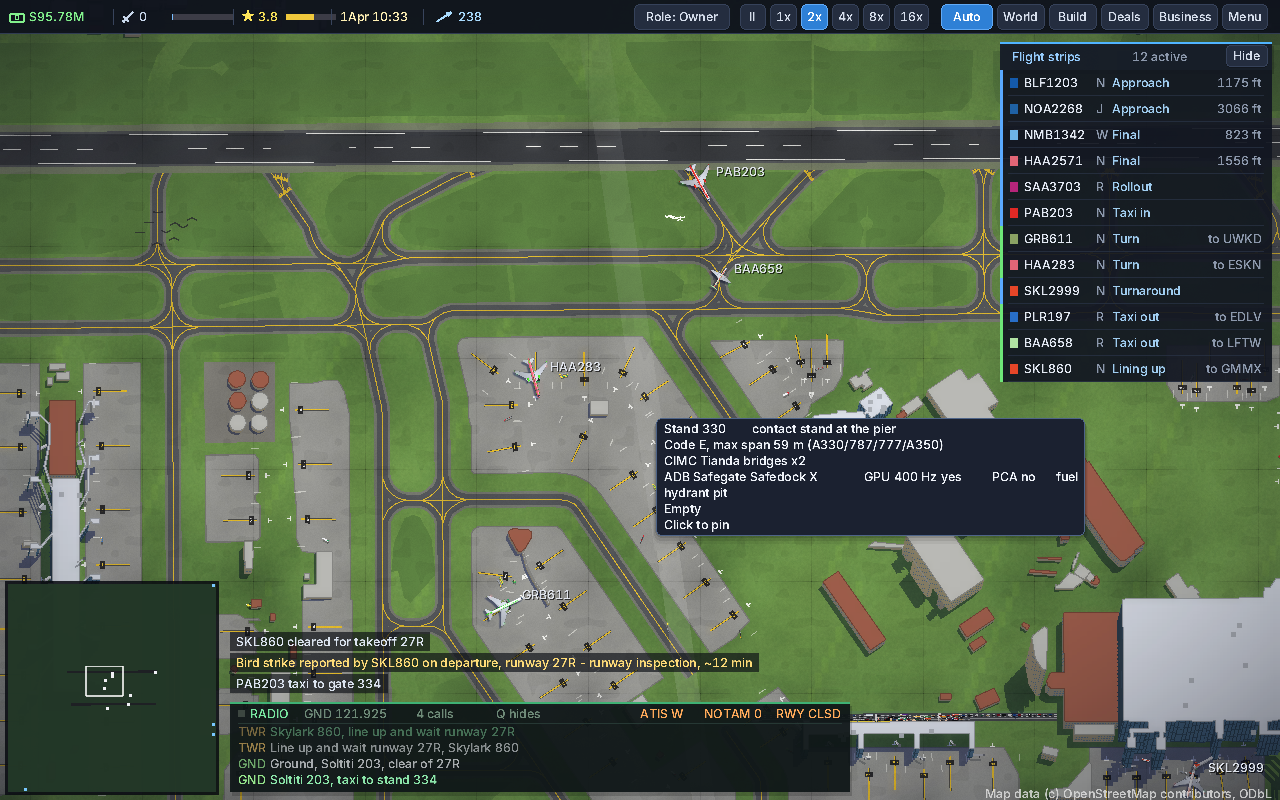
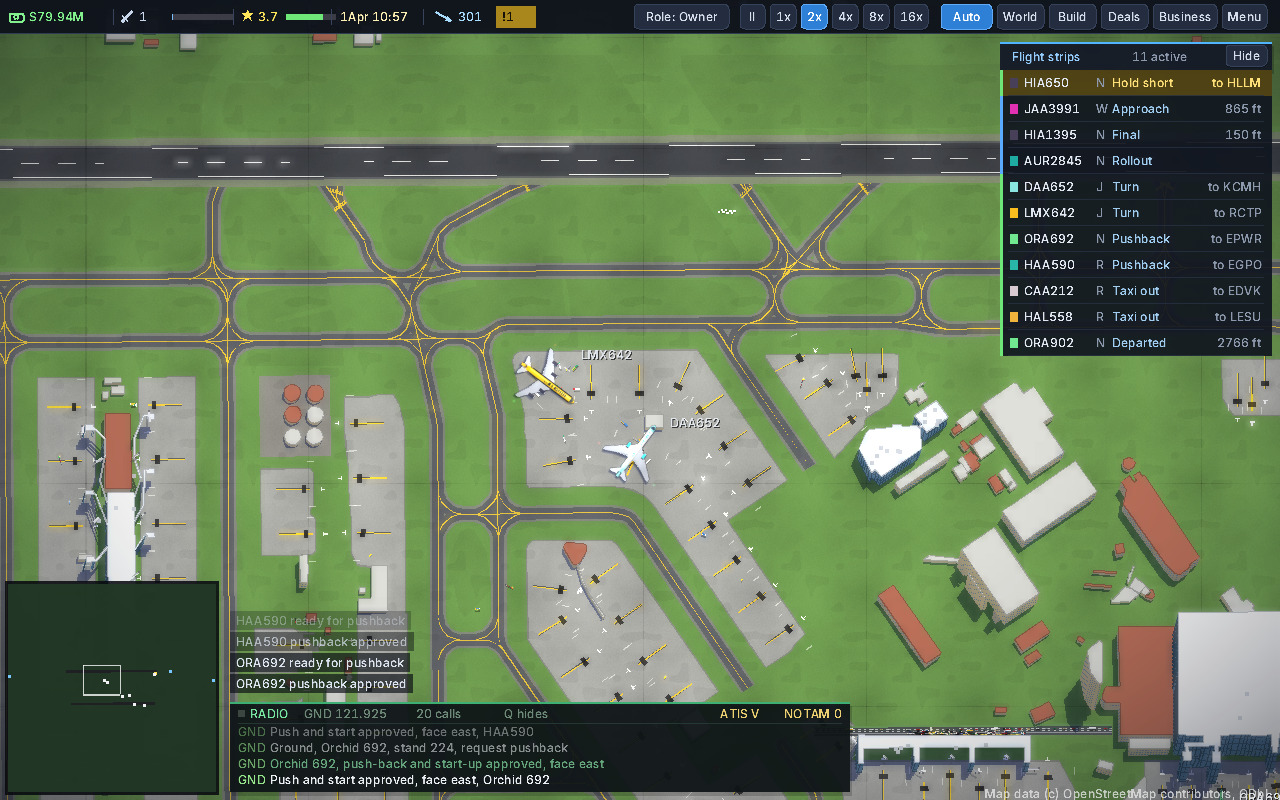
AirportSim: W3b merged (master c365bc1, suite 166,812/0); screenshots refreshed from the current build — world map, large (Heathrow), medium (Kelowna), small (Key West)

diff --git a/projects/airportsim/index.html b/projects/airportsim/index.html
@@ -174,9 +174,9 @@
   never his original scope — becomes one continuous world you can scroll
   or fly across, airport to airport, with one fully simulated airport at
   a time and the rest living statistical lives until you arrive. The
-  first two steps are merged and the third is underway (PRs #51, #52
-  and #61; master at <span
-  class="mono">997413f</span>): a double-precision world frame (worst
+  first two steps are merged and the third is well underway (PRs #51, #52,
+  #61 and #62; master at <span
+  class="mono">c365bc1</span>): a double-precision world frame (worst
   measured round-trip error 0.00001&nbsp;m), a geography pack format with
   real terrain data (Detroit and Denver areas built from ETOPO 2022 and
   Natural Earth), and a Development Mode world inspector — landed with
@@ -186,16 +186,21 @@
   the camera leaves the 9&nbsp;km fence for a 150&nbsp;km envelope, and
   the real geography — the Detroit River, Lake Erie, neighbouring
   airfields — renders to the horizon, with the full post-merge test
-  battery green. The third step has begun: its first part (PR #61) gives
+  battery green. The third step: its first part (PR #61) gives
   every arriving flight an identity worked out when it is scheduled —
   airline, aircraft, callsign, origin — and hands departing flights off
-  into onward tracks instead of letting them vanish at the fence. It
-  runs in shadow for now, proven to change nothing yet by a
-  bit-for-bit comparison run against the old code; the switch that
-  makes arrivals use those identities is building, with the full suite
-  at 166,742 checks, 0 failed. The geography was measured before it
-  was promised: at the finer terrain resolution the whole planet prices
-  out at about 1.1&nbsp;GB against a 2.5–3.0&nbsp;GB working budget.
+  into onward tracks instead of letting them vanish at the fence; it ran
+  in shadow first, proven to change nothing by a bit-for-bit comparison
+  run against the old code. The switch has now landed (PR #62):
+  arrivals are born from those identities, entering on the real bearing
+  from their real origin — and the step's own test gate caught an older
+  bug (the tower forgot its speed assignments across a save and reload)
+  and it was fixed inside the step, with the full suite at 166,812
+  checks, 0 failed and the post-merge battery fully green. The
+  geography was measured before it was promised, and the full planet
+  pack is now built and verified: 1.46&nbsp;GB of terrain, land cover
+  and shorelines against a 2.5–3.0&nbsp;GB working budget, with wiring
+  it into the game as its own step, judged by screenshots.
   Four steps follow — a second airport spins up; the background law
   for far airports; continuous pilot flight; the owner in the world —
   with the
@@ -248,20 +253,29 @@
     <img src="img/worldmap.png" alt="AirportSim world map with live flights and weather">
     <figcaption><strong>The world map, live in testing.</strong> Flights, routes and
     weather systems across the real Earth, with the day/night terminator sweeping
-    through. This is the world your one airport lives in.</figcaption>
+    through. This is the world your one airport lives in. (Refreshed 2026-11-04
+    from the current build: 1,439 flights airborne at capture time.)</figcaption>
   </figure>
 
   <figure>
     <img src="img/cylw.png" alt="Kelowna airport in the owner view">
-    <figcaption><strong>Home airport: Kelowna (CYLW).</strong> The owner's seat — the
-    standard campaign starts here with a crumbling terminal and a balance sheet.</figcaption>
+    <figcaption><strong>Medium airport: Kelowna (CYLW).</strong> The owner's seat — the
+    standard campaign starts here with a crumbling terminal and a balance sheet.
+    (Refreshed 2026-11-04 from the current build.)</figcaption>
   </figure>
 
   <figure>
     <img src="img/egll.png" alt="Heathrow airport during a session">
-    <figcaption><strong>Heathrow (EGLL) in session.</strong> During baseline testing an
-    unscripted bird strike closed a runway here. That is one observed event, reported
-    as such — not proof that every possible incident behaves correctly.</figcaption>
+    <figcaption><strong>Large airport: Heathrow (EGLL) in session.</strong> Live
+    traffic, flight strips and the ground radio log at one of the world's biggest
+    airports. (Refreshed 2026-11-04 from the current build.)</figcaption>
+  </figure>
+
+  <figure>
+    <img src="img/keyw.png" alt="Key West airport, a small single-runway airfield, during a session">
+    <figcaption><strong>Small airport: Key West (KEYW).</strong> One runway, a
+    departure and an arrival — the same simulation at the smallest scale.
+    (Captured 2026-11-04 from the current build.)</figcaption>
   </figure>
 
   <figure>

diff --git a/projects/airportsim/roadmap.html b/projects/airportsim/roadmap.html
@@ -330,19 +330,24 @@
     (PR #52: the view opens to a 150 km envelope and real geography
     renders to the horizon — rivers, lakes, neighbouring airfields —
     with the post-merge battery fully green); W3, the
-    fence becomes a hand-off — first part merged (PR #61: every arriving
-    flight's identity is worked out when it is scheduled, and departures
-    hand off into onward tracks; it runs in shadow, proven bit-for-bit
-    identical to the old behaviour, and the switch that uses the
-    identities is building); W4, the second airport spins up; W5, the
+    fence becomes a hand-off — first two parts merged (PR #61: every
+    arriving flight's identity is worked out when it is scheduled, and
+    departures hand off into onward tracks, running in shadow and proven
+    bit-for-bit identical to the old behaviour; PR #62: the switch —
+    arrivals now materialise from those identities, and the step's own
+    gate caught and fixed an older save/reload tower bug; post-merge
+    battery fully green, suite 166,812/0); the third part, re-baselining
+    the traffic numbers against the pre-world baseline at the firm
+    standard, is building; W4, the second airport spins up; W5, the
     background law for far airports (airport buying is transformed here —
     owned airports live their own days); W6, continuous pilot flight, with
     the Pilot and Passenger roles deepening inside it; W7, the owner in
     the world, with ATC growing sectors and two-ended traffic. The
-    geography was measured first: the whole planet at the finer terrain
-    resolution is about 1.1 GB against a 2.5–3.0 GB working budget, from
+    geography was measured first, and the full planet pack is now built
+    and verified at 1.46 GB against a 2.5–3.0 GB working budget, from
     licence-clean sources (ETOPO 2022, Natural Earth, WorldCover,
-    Copernicus — attribution carried in the game's credits).</p>
+    Copernicus — attribution carried in the game's credits); wiring it
+    into the game is its own step, judged by screenshots.</p>
     <p><span class="pill done">W1</span> <span class="pill done">W2</span> <span class="pill dev">W3</span> <span class="pill queue">W4</span> <span class="pill queue">W5</span> <span class="pill queue">W6</span> <span class="pill queue">W7</span></p>
   </div>
   <div class="arrow">↓</div>
